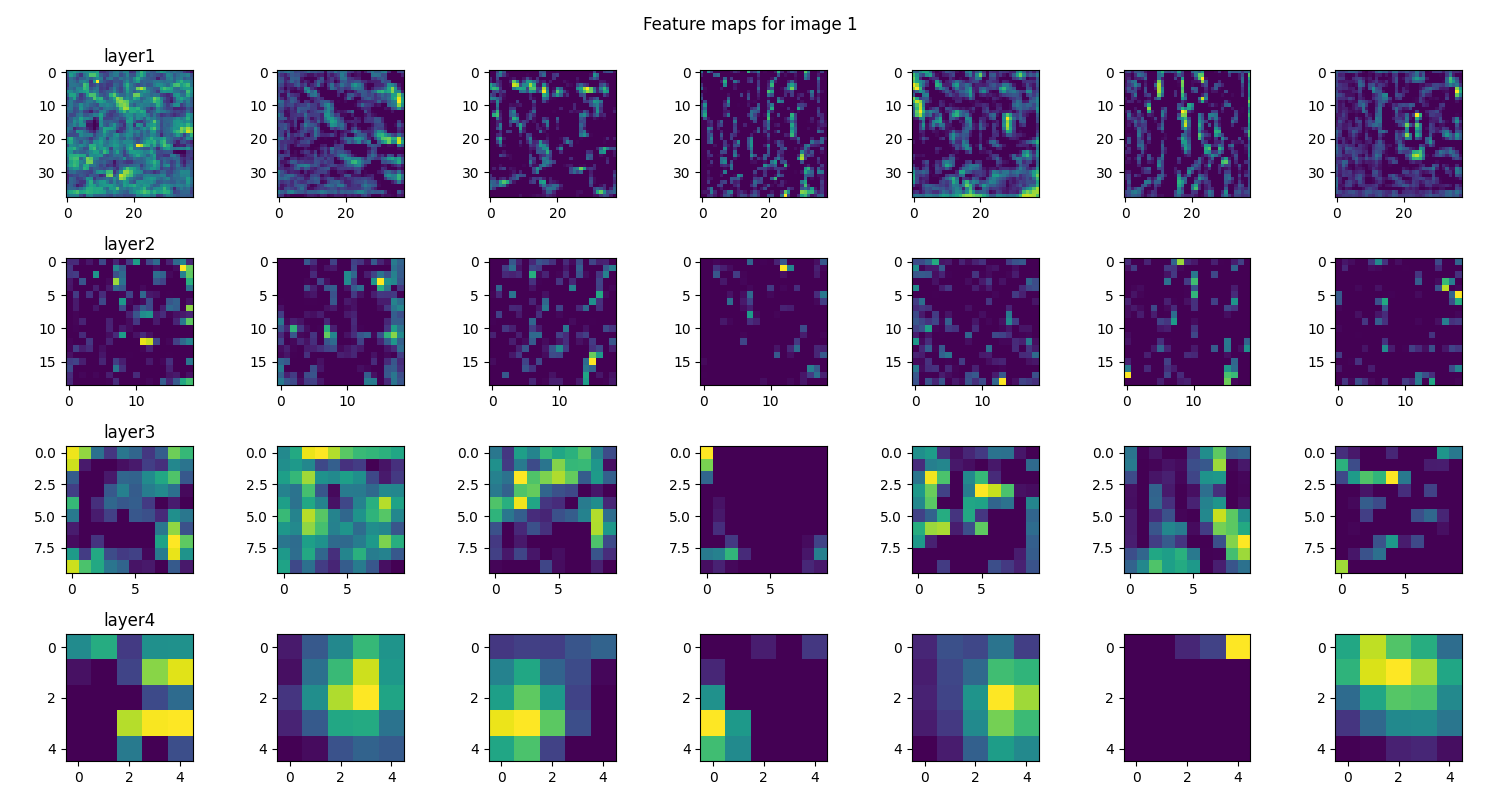
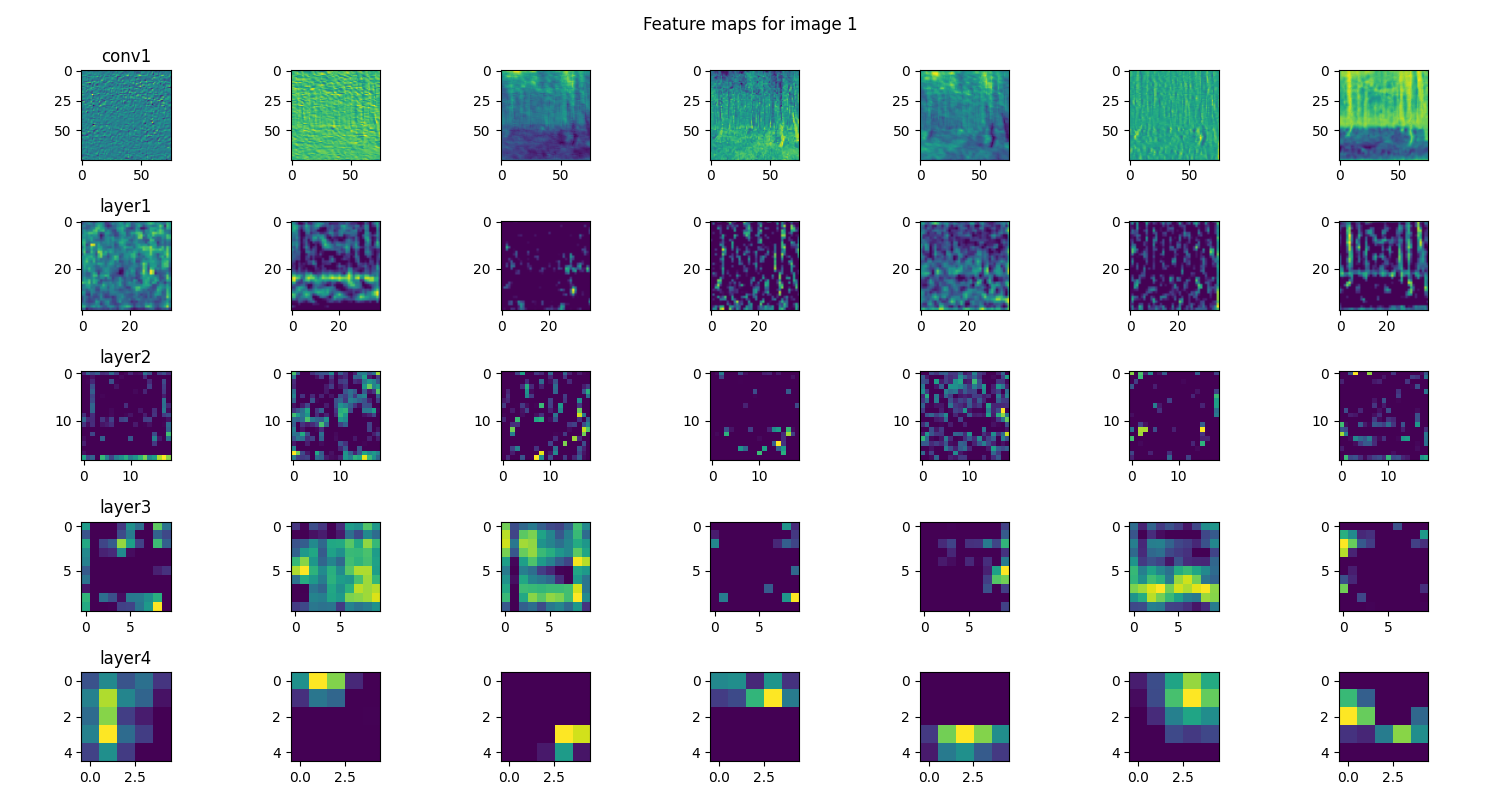
aSD

diff --git a/partG/main.py b/partG/main.py
@@ -109,10 +109,28 @@ def main():
     
     features = {}
     
-    layers = ['layer1', 'layer2', 'layer3', 'layer4']
+    zeros_percentage = {}
+    
+    layers = ['conv1', 'layer1', 'layer2', 'layer3', 'layer4']
     
     def hook(module, input, output):
         features[module.name] = output.detach()
+        if not module.name in zeros_percentage:
+            zeros_percentage[module.name] = (0.0, 0)
+        
+        negatives = torch.sum(output <= 0).item()
+        total = output.numel()
+        
+        u_step = negatives / total
+        n_step = output.shape[0]
+        
+        m_t, n_t = zeros_percentage[module.name]
+        m_next = (m_t * n_t + u_step * n_step) / (n_t + n_step)
+        n_next = n_t + n_step
+        
+        zeros_percentage[module.name] = (m_next, n_next)
+        
+        
     
     for name in layers:
         layer = getattr(model, name)
@@ -125,14 +143,32 @@ def main():
     images, labels = next(iter(test_loader))
     images = images.to(device)
     
-    
+    TARGET_NUM_IMAGES = 200
+    processed = 0
     model.eval()
+    
     with torch.no_grad():
-        model(images[:NUM_IMAGES])
+        for imgs, _ in test_loader:
+            if processed >= TARGET_NUM_IMAGES:
+                break
+            
+            batch_size = min(len(imgs), TARGET_NUM_IMAGES - processed)
+            current_batch = imgs[:batch_size].to(device)
+            
+            model(current_batch)
+            processed += batch_size
+        
+    log_path = f"non_positive_values.csv"
+    with open(log_path, "w") as f:
+        header = ",".join(layers) + "\n"
+        f.write(header)
+        
+        data = [f"{zeros_percentage[name][0] * 100:.2f}" for name in layers]
+        f.write(",".join(data) + "\n")
     
     os.makedirs("images", exist_ok=True)
-    for i in range(NUM_IMAGES):
-        fig, axes = plt.subplots(nrows=4, ncols=7, figsize=(15,8))
+    for i in range(len(features[layers[0]])):
+        fig, axes = plt.subplots(nrows=len(layers), ncols=7, figsize=(15,8))
         fig.suptitle(f"Feature maps for image {i}")
         
         for y, name in enumerate(layers):
@@ -152,7 +188,6 @@ def main():
         plt.savefig(save_path)
         plt.close()
                 
-    print(features)    
     
     return 0
 
